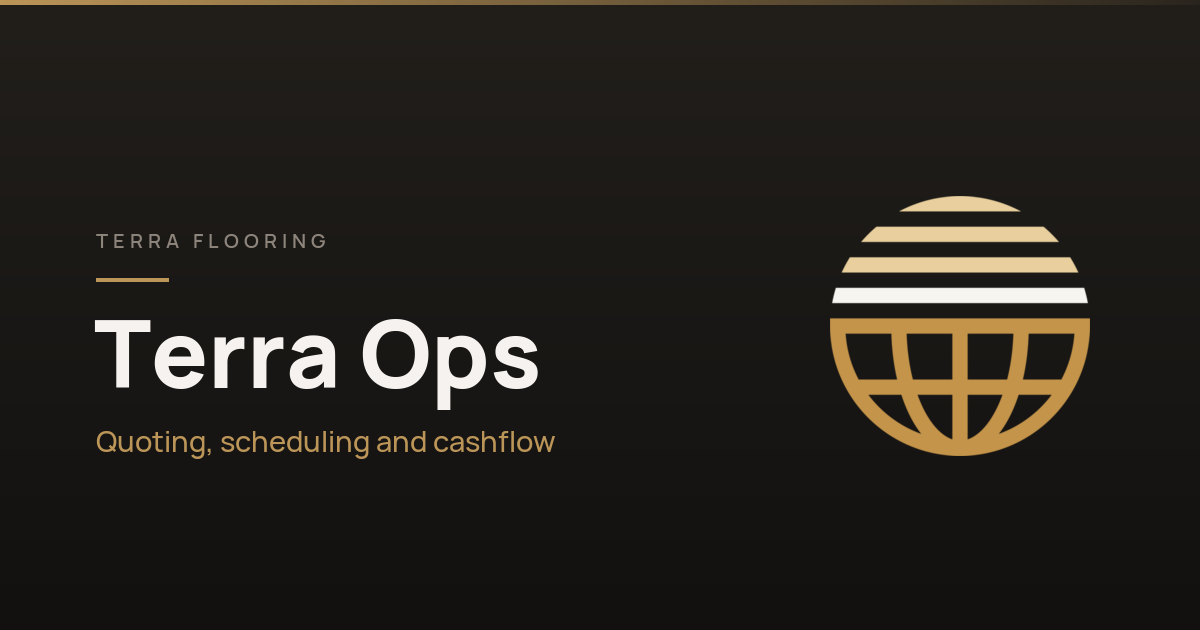
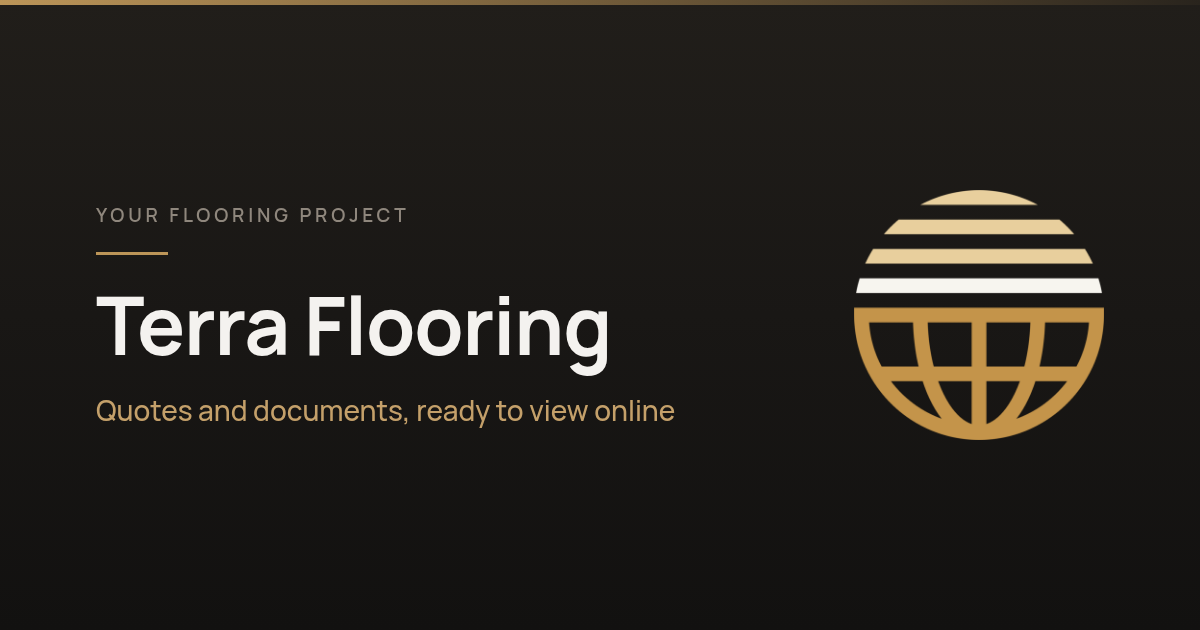
Link previews: client links show Terra Flooring, no customer details; staff tab stays Terra Ops

Changed region(s): [[0.0617, 0.3317, 0.555, 0.7238], [0.6783, 0.3016, 0.925, 0.7238]]

diff --git a/packages/web/index.html b/packages/web/index.html
@@ -9,27 +9,30 @@
 		<link rel="icon" type="image/png" sizes="192x192" href="/icon-192.png" />
 		<link rel="icon" type="image/png" sizes="512x512" href="/icon-512.png" />
 		<link rel="apple-touch-icon" href="/apple-touch-icon.png" />
-		<title>Terra Ops</title>
+		<title>Terra Flooring</title>
 		<meta
 			name="description"
-			content="Quoting, scheduling and cashflow for Terra Flooring."
+			content="Your quote and documents from Terra Flooring, ready to view online."
 		/>
-		<meta property="og:title" content="Terra Ops" />
+		<meta property="og:site_name" content="Terra Flooring" />
+		<meta property="og:title" content="Terra Flooring" />
 		<meta
 			property="og:description"
-			content="Quoting, scheduling and cashflow for Terra Flooring."
+			content="Your quote and documents from Terra Flooring, ready to view online."
 		/>
 		<meta property="og:type" content="website" />
-		<meta property="og:image" content="/og-image.png" />
+		<meta property="og:image" content="https://ops.terraflooring.com.au/og-image.png" />
+		<meta property="og:image:type" content="image/png" />
+		<meta property="og:image:alt" content="Terra Flooring" />
 		<meta property="og:image:width" content="1200" />
 		<meta property="og:image:height" content="630" />
 		<meta name="twitter:card" content="summary_large_image" />
-		<meta name="twitter:title" content="Terra Ops" />
+		<meta name="twitter:title" content="Terra Flooring" />
 		<meta
 			name="twitter:description"
-			content="Quoting, scheduling and cashflow for Terra Flooring."
+			content="Your quote and documents from Terra Flooring, ready to view online."
 		/>
-		<meta name="twitter:image" content="/og-image.png" />
+		<meta name="twitter:image" content="https://ops.terraflooring.com.au/og-image.png" />
 	</head>
 	<body>
 		<div id="root"></div>

diff --git a/packages/web/src/web/components/layout.tsx b/packages/web/src/web/components/layout.tsx
@@ -350,6 +350,11 @@ export function Layout({ children }: { children: React.ReactNode }) {
     };
   }, []);
 
+  // index.html carries the client-facing "Terra Flooring" title for link previews. Staff tabs say Terra Ops.
+  React.useEffect(() => {
+    document.title = "Terra Ops";
+  }, []);
+
   if (isLogin) return <>{children}</>;
 
   if (session.isPending) return <Loading label="Loading Terra Ops…" />;
